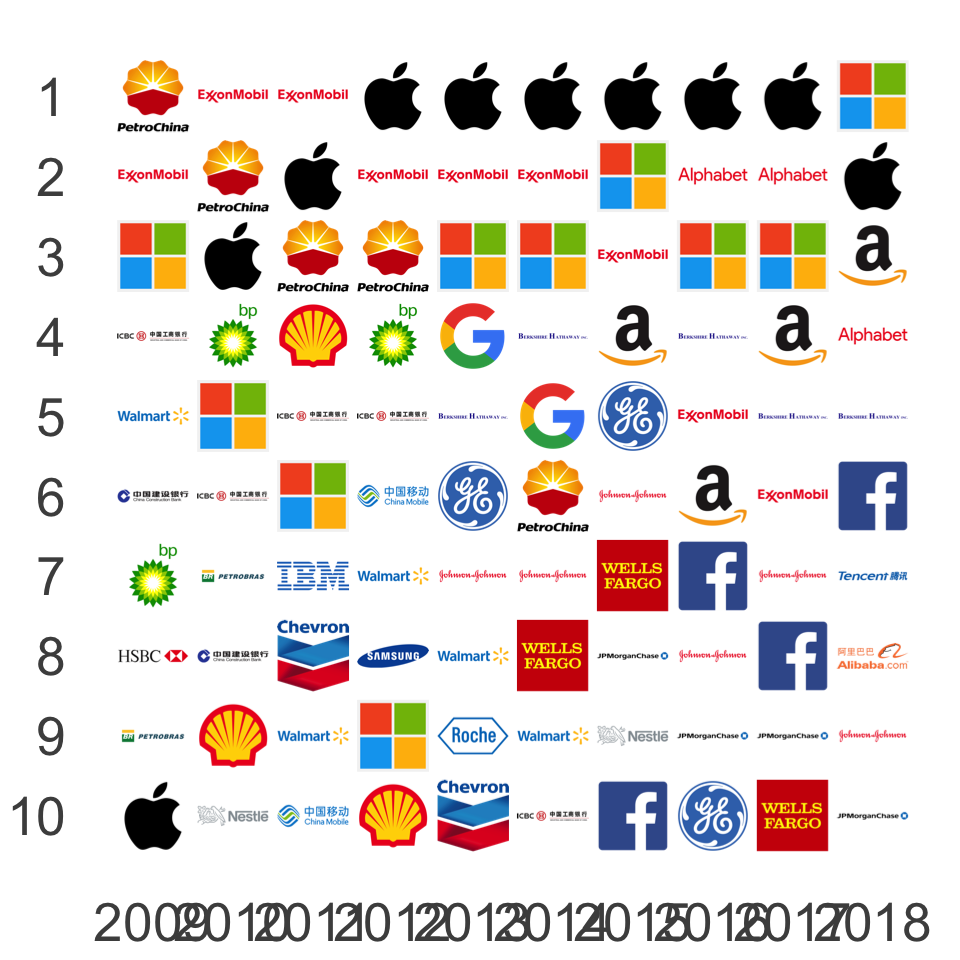
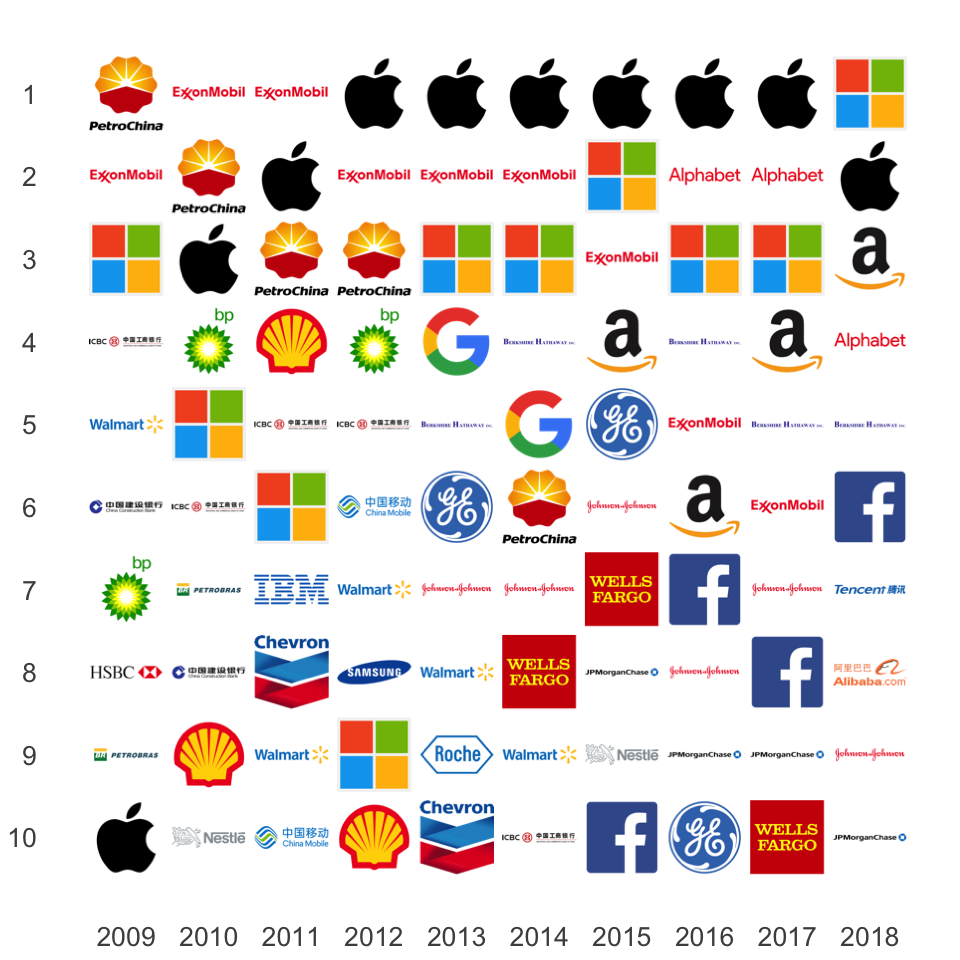
Fast forward to 2009-2018

diff --git a/README.md b/README.md
@@ -4,7 +4,7 @@ Digitalization - Pipelines to Platforms
 Rise of Digital Platforms Over 2009 to 2018
 ===========================================
 
-Based on data in ![<https://en.wikipedia.org/wiki/List_of_public_corporations_by_market_capitalization>](https://en.wikipedia.org/wiki/List_of_public_corporations_by_market_capitalization)
+Based on data in [List of public corporations by market capitalization @ Wikipedia](https://en.wikipedia.org/wiki/List_of_public_corporations_by_market_capitalization)
 
 ``` r
 mcs = read.csv("marketcapitalizations.csv")
@@ -17,7 +17,7 @@ Oil Barrons Stepped Down - Silicon Kids Moved Up
 |:---------------------------------------------------------------:|:--------------------------------------------------------:|:-----------------------------------------------------------:|
 | ![](./README_files/figure-markdown_github/companies-gafa-1.png) | ![](./README_files/figure-markdown_github/nations-1.png) | ![](./README_files/figure-markdown_github/industries-1.png) |
 
-Icons made by ![<https://www.flaticon.com/authors/freepik>](Freepik)
+Icons made by [Freepik](https://www.flaticon.com/authors/freepik)
 
 ``` r
 library(ggplot2)
@@ -30,8 +30,8 @@ tenyearsafter<-function(years, ranks, names, folder) {
   ggplot() +
     labs(x = "Years", y = "Rank") +
     theme(
-      axis.text.x      = element_text(size = 40),
-      axis.text.y      = element_text(size = 40),
+      axis.text.x      = element_text(size = 20),
+      axis.text.y      = element_text(size = 20),
       axis.title.x     = element_blank(),
       axis.title.y     = element_blank(),
       axis.ticks       = element_blank(),
